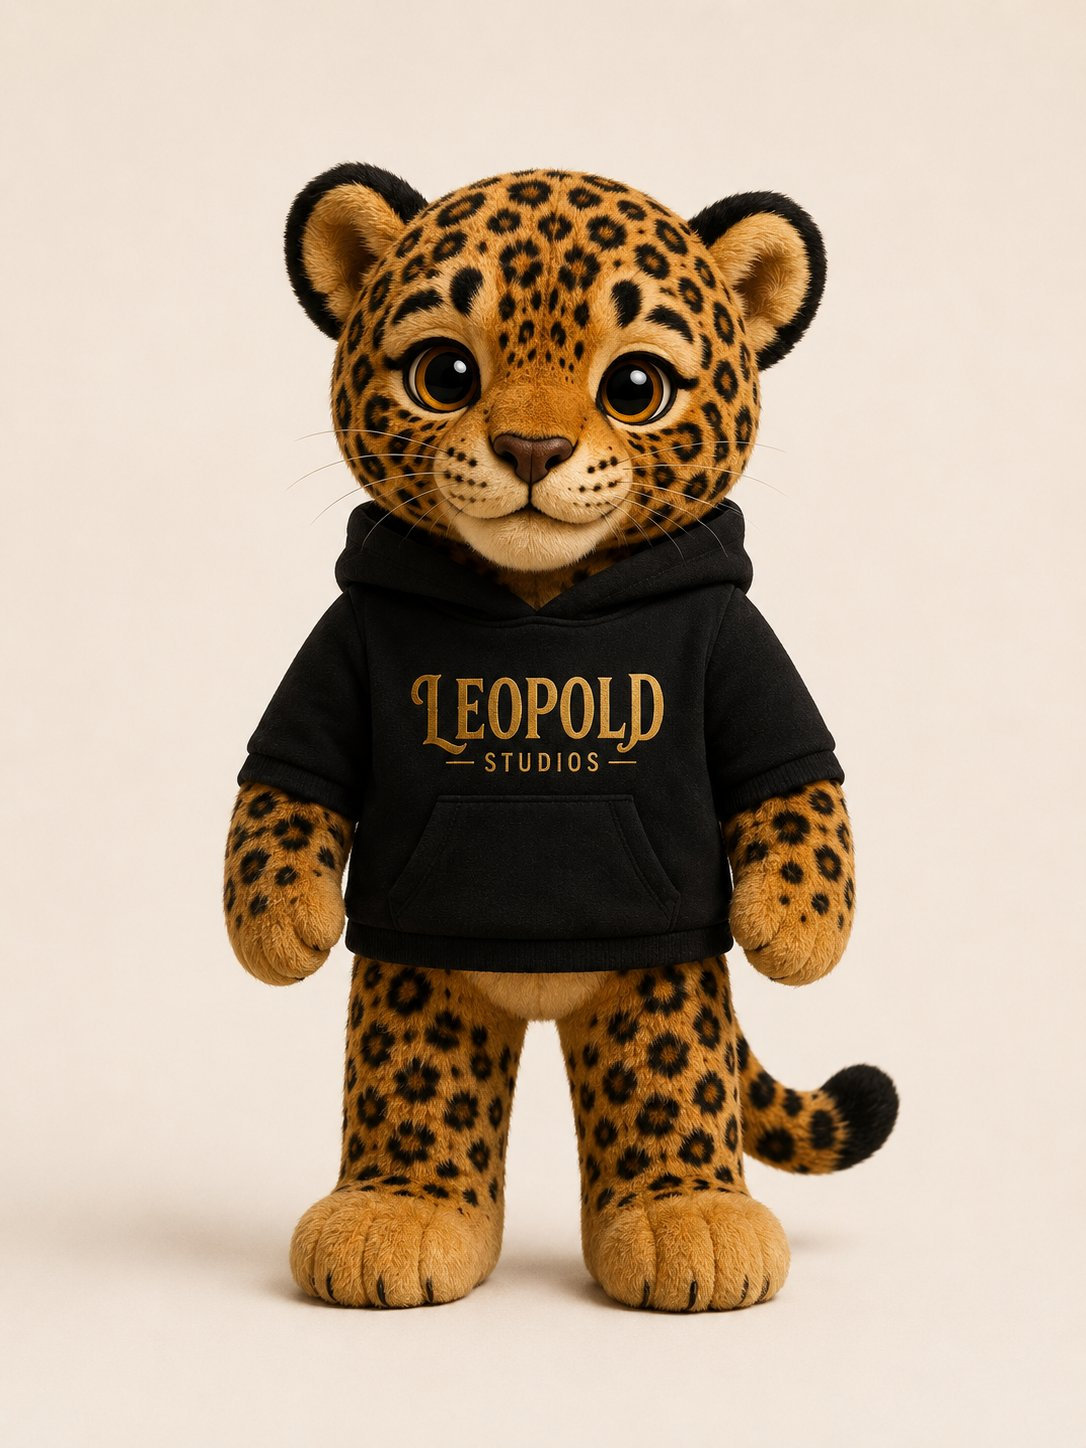
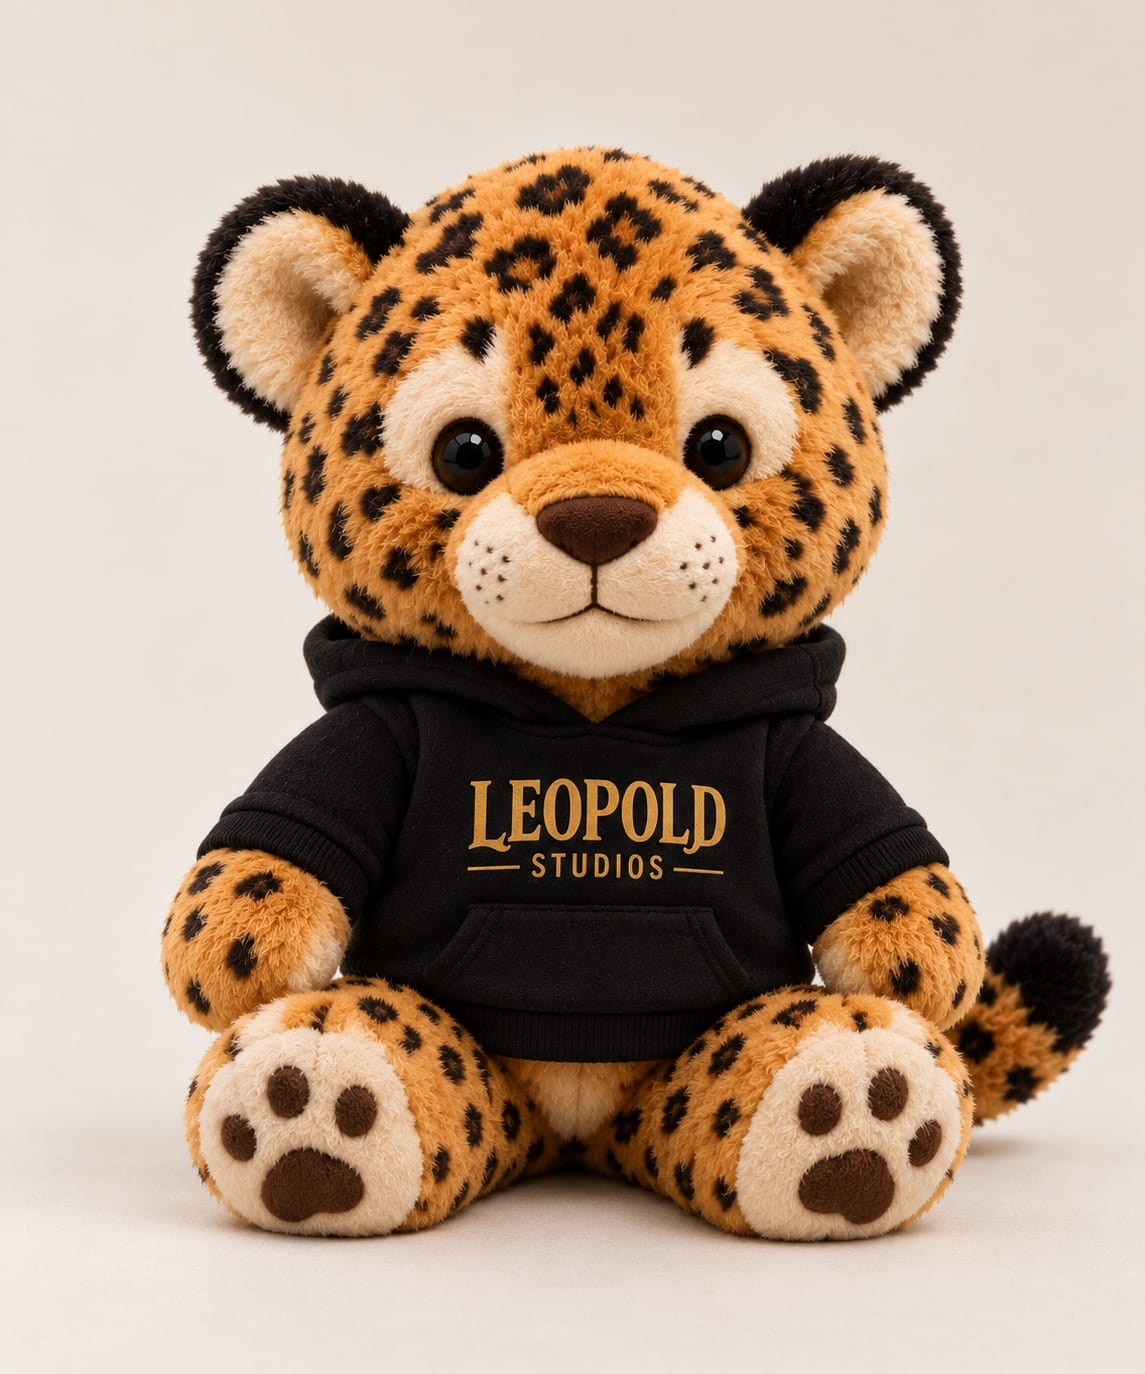
Add Ludovico Helados photo and update Leopold Studios photo

diff --git a/src/lib/i18n/dictionaries/es.ts b/src/lib/i18n/dictionaries/es.ts
@@ -158,7 +158,7 @@ const es = {
         quote:
           "Queríamos crear un personaje que representara la identidad de Leopold Studios, inspirado en el otorongo peruano, y que pudiera formar parte de la experiencia de quienes visitan nuestro estudio. Lima Plush convirtió nuestra idea en una pieza única, con alma, y además creó para nosotros un vídeo promocional en el que el peluche se convirtió en el protagonista. Conseguimos una pieza especial para entregar a nuestros invitados y hacer que su paso por el estudio fuera una experiencia muy bonita.",
         image: "/images/cases/leopold-studios.jpg",
-        imageAlt: "Peluche de otorongo peruano con polera negra bordada con el logo de Leopold Studios",
+        imageAlt: "Peluche de otorongo peruano sentado, con polera negra bordada con el logo de Leopold Studios",
       },
       {
         client: "Ludovico Helados",
@@ -167,6 +167,8 @@ const es = {
         quote:
           "Queríamos crear un personaje que transmitiera la alegría y el espíritu de Ludovico, y que nuestros clientes pudieran llevarse un pedacito de la marca a casa. El resultado nos encantó: el peluche se convirtió rápidamente en uno de los favoritos de nuestros clientes y en un recuerdo especial de Ludovico. Desde que lo incorporamos, nuestras ventas aumentaron un 10% y el peluche se convirtió en una parte muy querida de nuestra marca.",
         highlight: { value: "+10%", label: "en ventas desde que incorporaron el peluche" },
+        image: "/images/cases/ludovico-helados.jpg",
+        imageAlt: "Osito de peluche naranja con un cono de helado, pañuelo azul y camiseta con el logo de Ludovico Helados",
       },
       {
         client: "Xpecializa Consulting",

diff --git a/src/lib/i18n/dictionaries/en.ts b/src/lib/i18n/dictionaries/en.ts
@@ -147,7 +147,7 @@ const en: Dictionary = {
         quote:
           "We wanted to create a character that represented Leopold Studios' identity, inspired by the Peruvian otorongo, that could become part of the experience of everyone who visits our studio. Lima Plush turned our idea into a unique piece with soul, and also created a promotional video for us in which the plush became the star. We ended up with a special piece to give our guests, making their time at the studio a truly lovely experience.",
         image: "/images/cases/leopold-studios.jpg",
-        imageAlt: "Plush Peruvian otorongo jaguar wearing a black hoodie embroidered with the Leopold Studios logo",
+        imageAlt: "Seated plush Peruvian otorongo jaguar wearing a black hoodie embroidered with the Leopold Studios logo",
       },
       {
         client: "Ludovico Helados",
@@ -156,6 +156,8 @@ const en: Dictionary = {
         quote:
           "We wanted to create a character that conveyed Ludovico's joy and spirit, so our customers could take a little piece of the brand home. We loved the result: the plush quickly became one of our customers' favorites and a special keepsake of Ludovico. Since we introduced it, our sales have grown by 10%, and the plush has become a much-loved part of our brand.",
         highlight: { value: "+10%", label: "in sales since introducing the plush" },
+        image: "/images/cases/ludovico-helados.jpg",
+        imageAlt: "Orange plush bear holding an ice cream cone, wearing a blue scarf and a T-shirt with the Ludovico Helados logo",
       },
       {
         client: "Xpecializa Consulting",
